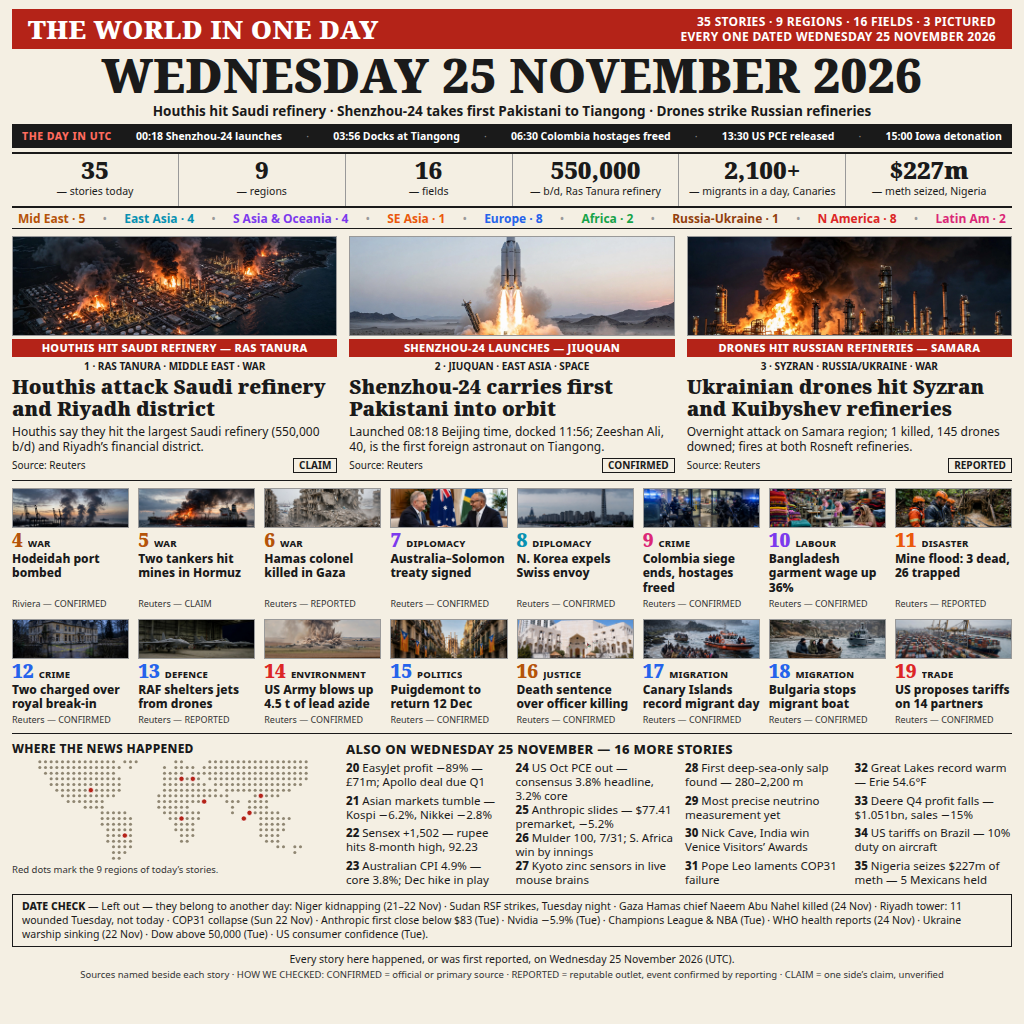
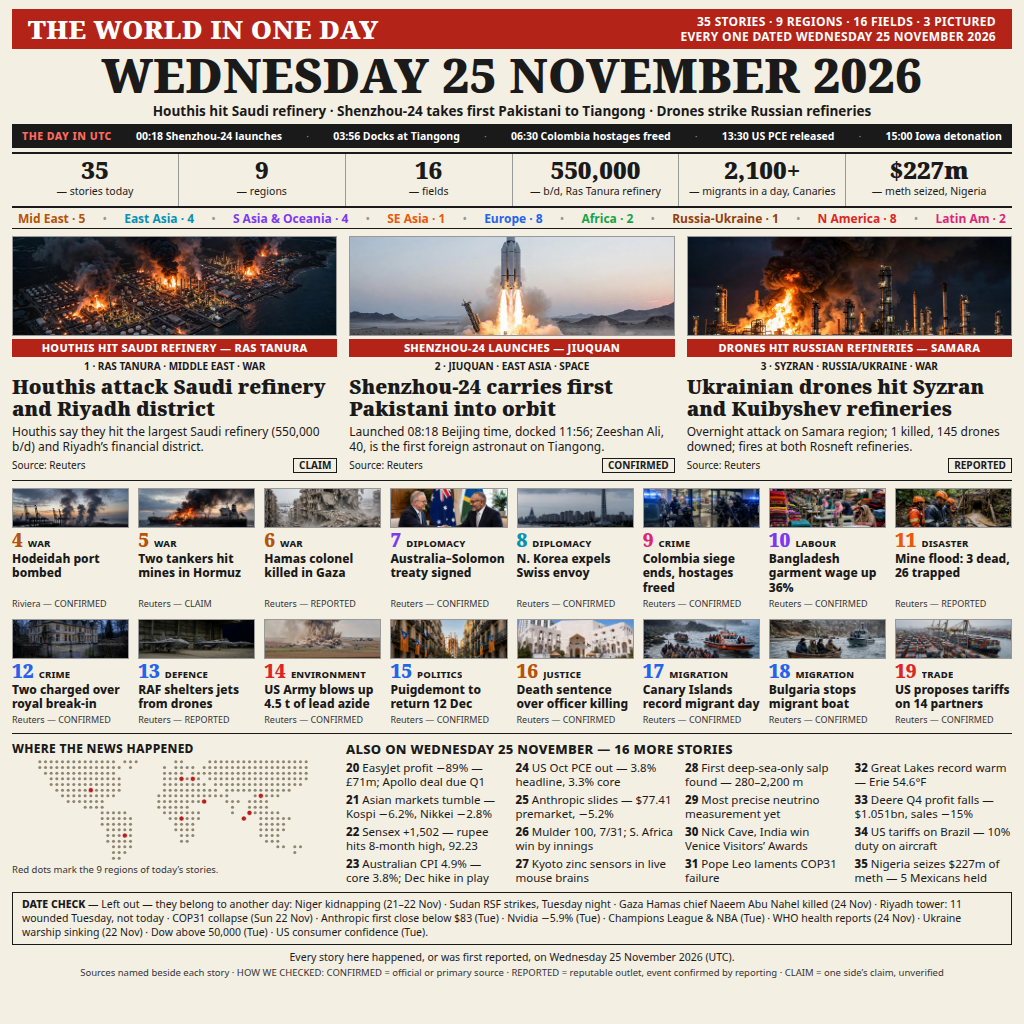
v1 fix: US Oct PCE actuals 3.8% headline, 3.3% core (BEA) in ALSO item 24

Changed region(s): [[0.0, 0.75, 0.9688, 0.9688]]

diff --git a/main.py b/main.py
@@ -29,10 +29,10 @@ OUTPUT_DIR = os.environ.get("MAKEFUN_OUTPUT_DIR", "/output")
 HERE = os.path.dirname(os.path.abspath(__file__))
 IMAGE_PATH = os.path.join(HERE, "entry.png")
 
-# SHA-256 of the final v1 entry.png (1024x1024, 599,085 bytes).
+# SHA-256 of the final v1 entry.png (1024x1024, 598,139 bytes).
 # Filled in after the final render; update it whenever entry.png changes.
[1 lines of base64/hex data omitted]
-EXPECTED_BYTES = 599085
[1 lines of base64/hex data omitted]
+EXPECTED_BYTES = 598139
 ONE_MIB = 1_048_576
 
 
